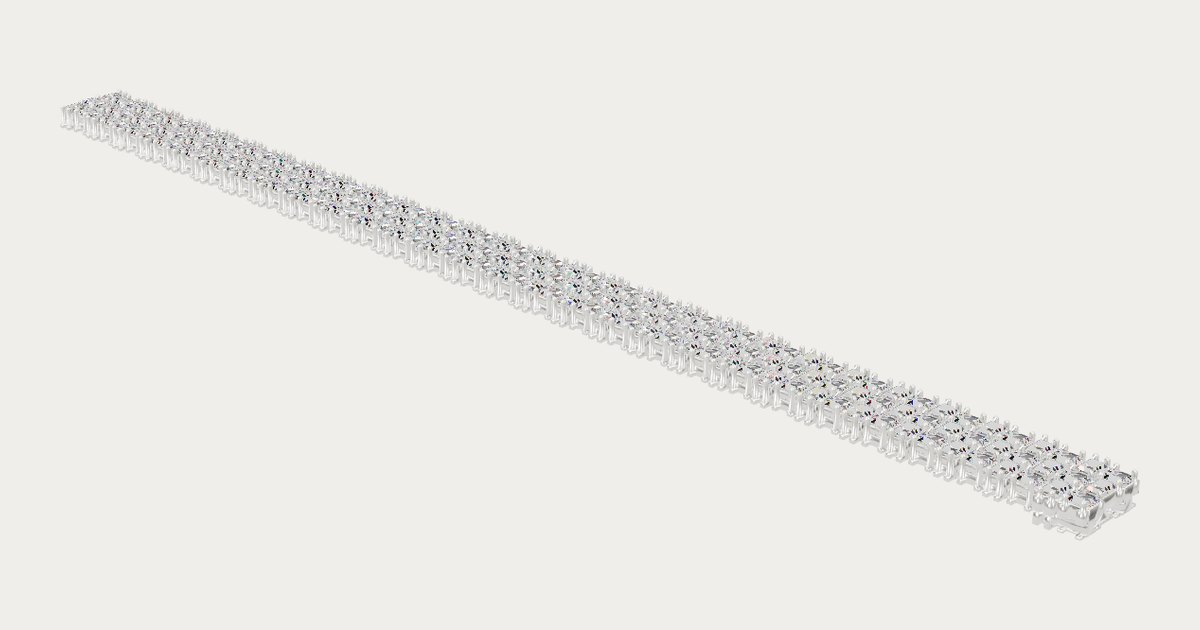
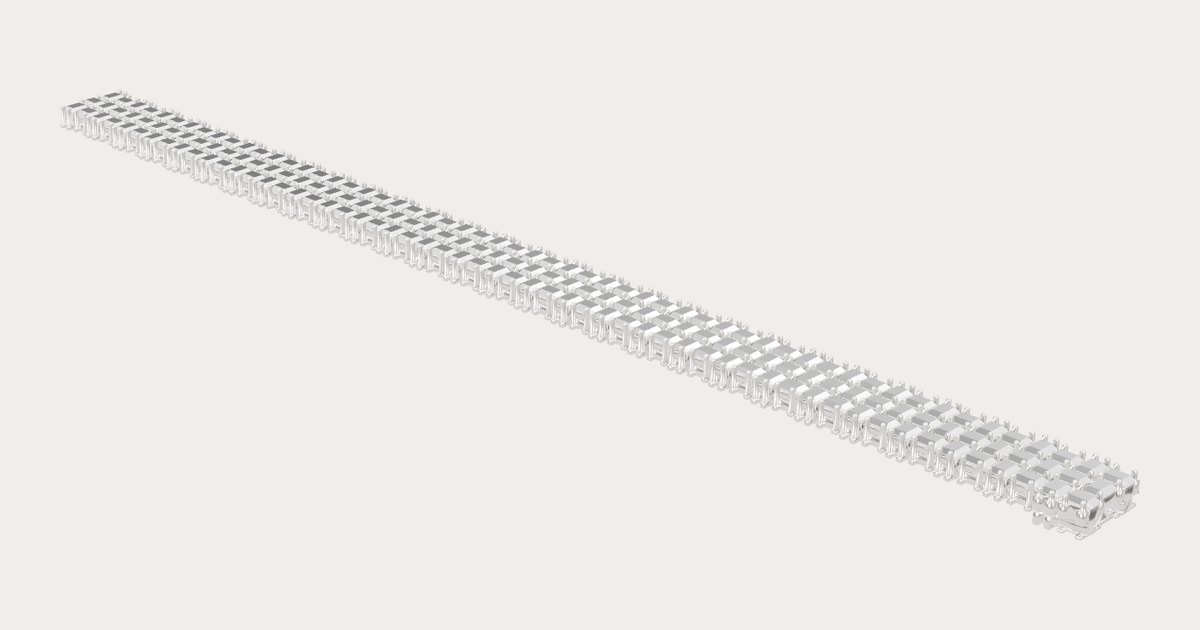
Publish baguette-tennis-v2-flat

Changed region(s): [[0.0617, 0.1508, 0.9558, 0.8143]]

diff --git a/baguette-tennis-v2-flat/index.html b/baguette-tennis-v2-flat/index.html
@@ -11,7 +11,7 @@
 <meta property="og:title" content="צמיד טניס בגט · גרסה 2">
 <meta property="og:description" content="רק יהלומים ושיניים · פרוס ישר">
 <meta property="og:url" content="https://israelbitton-web.github.io/jewelry-3d/baguette-tennis-v2-flat/">
-<meta property="og:image" content="https://israelbitton-web.github.io/jewelry-3d/baguette-tennis-v2-flat/preview.jpg?v=1793549833">
+<meta property="og:image" content="https://israelbitton-web.github.io/jewelry-3d/baguette-tennis-v2-flat/preview.jpg?v=1793550349">
 <meta property="og:image:width" content="1200">
 <meta property="og:image:height" content="630">
 <meta name="twitter:card" content="summary_large_image">
@@ -299,7 +299,7 @@ const CAPTURE = Q.has('capture');
 const CSIZE = +(Q.get('size') || 1080);
 if (CAPTURE) document.body.classList.add('capture');
 const CFG = await fetch('config.json', { cache: 'no-cache' }).then((r) => r.ok ? r.json() : {}).catch(() => ({}));
-const BUILD = '1793549833';
+const BUILD = '1793550349';
 if (CFG.v && BUILD !== '__BUILD__' && CFG.v !== BUILD && Q.get('r') !== CFG.v) { const u = new URL(location.href); u.searchParams.set('r', CFG.v); location.replace(u); }
 // language: every text on the page in one table; the switch (he / fr / en) rewrites all of it, details included.
 // start = ?lang=, then the visitor's last choice, then config "lang" ("auto" = the phone's language; default Hebrew)
@@ -620,7 +620,7 @@ const metalKey = Q.get('metal') || CFG.metal || 'pt';
 const metalMat = new THREE.MeshStandardMaterial({ color: METALS[metalKey] || METALS.pt, metalness: 1, roughness: 0.1, envMapIntensity: 1.2 });
 document.querySelectorAll('[data-metal]').forEach((x) => x.classList.toggle('on', x.dataset.metal === metalKey));
 const diamondMats = [];
-let radius = 1, elev = Q.has('elev') ? +Q.get('elev') : 0.55;   // ?elev= camera height (capture stills)
+let radius = 1, elev = Q.has('elev') ? +Q.get('elev') : (CFG.elev ?? 0.55);   // config "elev": start camera height   // ?elev= camera height (capture stills)
 
 const draco = new DRACOLoader().setDecoderPath('https://www.gstatic.com/draco/versioned/decoders/1.5.6/');
 const gltf = await new GLTFLoader().setDRACOLoader(draco).loadAsync((CFG.model || 'model.glb') + (CFG.v ? '?v=' + CFG.v : ''));   // v = publish stamp: phones never keep an old model
@@ -653,6 +653,16 @@ ring.updateMatrixWorld(true);
 ring.traverse((o) => {
   if (!o.isMesh) return;
   if (!o.name.startsWith('diamond')) { o.material = metalMat; return; }
+  // config "gem_style": "facet" (many small step-cut stones, bracelets): a crisp faceted mirror-crystal per facet instead
+  // of tracing one merged mesh (rays wandered from stone to stone, and the cost made phones drop the resolution)
+  if (CFG.gem_style === 'facet' && !(GEM !== 'bvh' && roundFrame(o))) {
+    o.geometry = o.geometry.toNonIndexed(); o.geometry.computeVertexNormals();
+    // mirror-crystal: every flat facet reflects a different part of the studio (light / dark steps like a step cut)
+    const m = new THREE.MeshPhysicalMaterial({ color: 0xdfe6ee, metalness: 1.0, roughness: 0.02, flatShading: true,
+      envMapIntensity: 1.25, clearcoat: 1.0, clearcoatRoughness: 0.0, iridescence: 0.35, iridescenceIOR: 1.8,
+      iridescenceThicknessRange: [180, 420] });
+    m.userData.facet = true; o.material = m; diamondMats.push(m); return;
+  }
   const F = GEM === 'bvh' ? null : roundFrame(o);
   const m = F ? analyticGem(F) : bvhGem(o.geometry);
   o.material = m; diamondMats.push(m);
@@ -684,7 +694,7 @@ const thumbGem = centre || (gemSizes.length ? gemSizes[0][1] : null);
 const targets = centre ? [centre] : gemSizes.map((g) => g[1]);
 function setStone(key) {
   const st = STONES[key]; if (!thumbGem || !st) return;
-  for (const g of targets) { g.material.uniforms.color.value.set(st.tones[TONE[key]]); g.material.uniforms.ior.value = st.ior; }
+  for (const g of targets) { if (g.material.userData.facet) { g.material.color.set(st.tones[TONE[key]]); continue; } g.material.uniforms.color.value.set(st.tones[TONE[key]]); g.material.uniforms.ior.value = st.ior; }
   document.querySelectorAll('[data-stone]').forEach((x) => x.classList.toggle('on', x.dataset.stone === key));
 }
 function openShades(btn) {
@@ -814,7 +824,7 @@ if (thumbGem) {
   if (CFG.stone_buttons !== false) document.getElementById('gems').hidden = false;
   const startKey = Q.get('stone') || CFG.center_stone;
   if (startKey) setStone(startKey);
-  else if (centre && CFG.gem_colors && CFG.gem_colors.largest) { centre.material.uniforms.color.value.set(CFG.gem_colors.largest);
+  else if (centre && CFG.gem_colors && CFG.gem_colors.largest && centre.material.uniforms) { centre.material.uniforms.color.value.set(CFG.gem_colors.largest);
     document.querySelector('[data-stone="diamond"]').classList.add('on'); }
   else setStone('diamond');
   document.querySelectorAll('[data-stone]').forEach((b) => picker(b, openShades, () => { setStone(b.dataset.stone); shadeHint(); }));
@@ -843,7 +853,7 @@ composer.addPass(new OutputPass());
 
 // compile every shader before the first frame, so the jewel appears complete instead of stalling on first draw
 await renderer.compileAsync(scene, camera);
-if (thumbGem && !CAPTURE) gemThumbs();
+if (thumbGem && !CAPTURE && thumbGem.material.uniforms) gemThumbs();
 document.getElementById('loading').remove();
 
 function onResize() {
@@ -981,7 +991,7 @@ document.querySelectorAll('.ctl button, .tools button, .views button').forEach((
 const res = new THREE.Vector2();
 function draw() {
   renderer.getDrawingBufferSize(res);
-  for (const m of diamondMats) m.uniforms.resolution.value.copy(res);
+  for (const m of diamondMats) if (m.uniforms) m.uniforms.resolution.value.copy(res);
   // without sparkle, skip the post-processing chain: two full-screen passes fewer per frame
   if (bloom.enabled) composer.render(); else renderer.render(scene, camera);
 }
